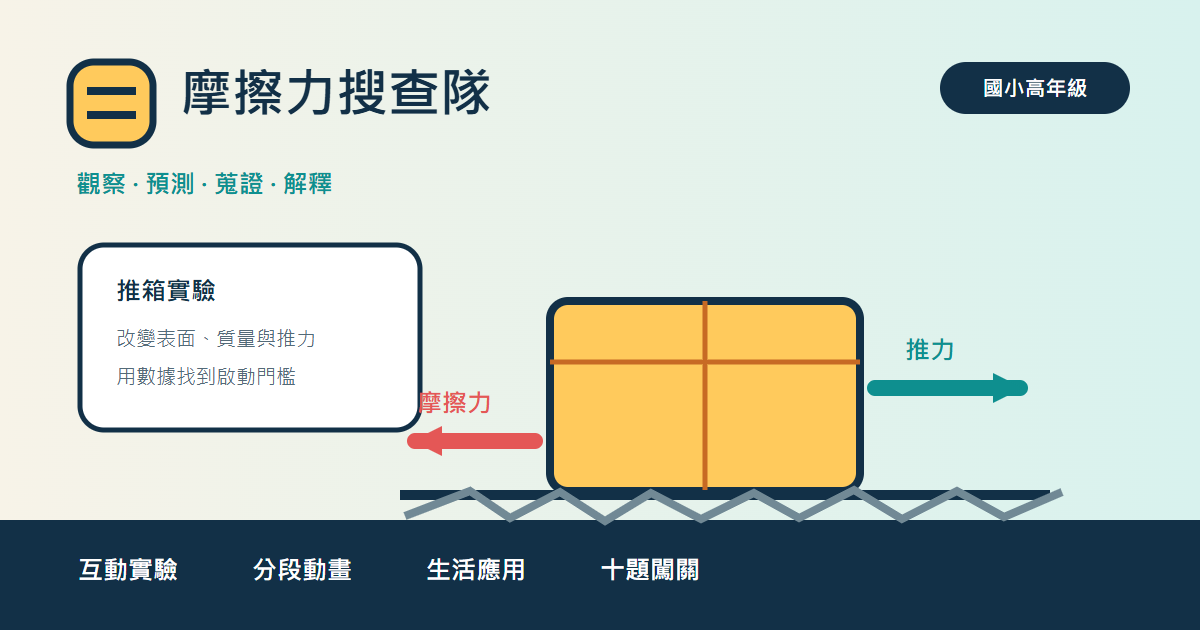
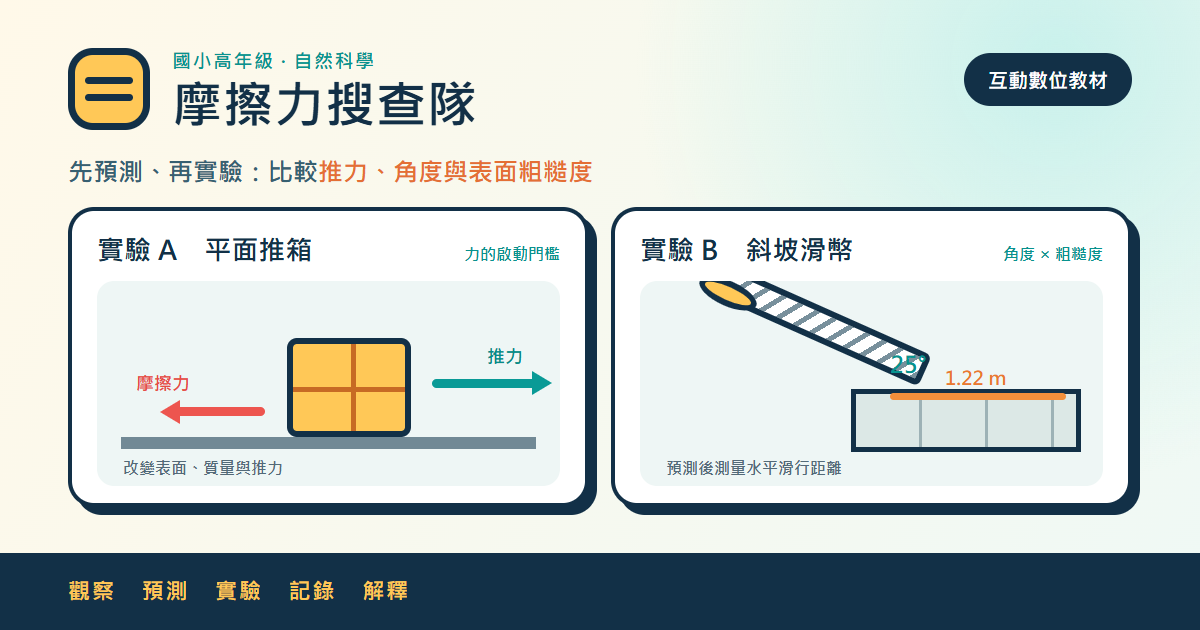
Refresh social preview and sharing copy

diff --git a/docs/social-preview-source.html b/docs/social-preview-source.html
@@ -1,0 +1,21 @@
+<!doctype html>
+<html lang="zh-Hant">
+<head>
+<meta charset="utf-8" />
+<meta name="viewport" content="width=device-width,initial-scale=1" />
+<title>摩擦力搜查隊社群預覽圖</title>
+<link rel="icon" href="../assets/favicon.svg" type="image/svg+xml" />
+<style>
+*{box-sizing:border-box}html,body{margin:0;width:1200px;height:630px;overflow:hidden}body{font-family:"Microsoft JhengHei","Noto Sans TC",sans-serif;color:#123047;background:#f8f4e8}.canvas{position:relative;width:1200px;height:630px;padding:48px 68px 0;background:radial-gradient(circle at 88% 10%,#c9f1ec 0,transparent 35%),linear-gradient(120deg,#fff9e9,#eff9f5)}header{display:flex;align-items:flex-start;justify-content:space-between}.brand{display:flex;gap:22px;align-items:center}.mark{width:82px;height:82px;border:7px solid #123047;border-radius:25px;background:#ffc857;display:grid;place-content:center;gap:10px}.mark i{display:block;width:48px;height:7px;border-radius:7px;background:#123047}.eyebrow{margin:0 0 4px;color:#08928e;font-weight:900;font-size:19px;letter-spacing:.08em}.title{margin:0;font-size:50px;line-height:1.05;letter-spacing:.02em}.badge{margin-top:5px;padding:13px 24px;border-radius:999px;background:#123047;color:#fff;font-size:20px;font-weight:900}.subtitle{margin:24px 0 20px;font-size:25px;color:#376071;font-weight:800}.subtitle strong{color:#e46f35}.labs{display:grid;grid-template-columns:1fr 1fr;gap:22px}.lab{height:300px;padding:20px 25px;border:4px solid #123047;border-radius:26px;background:#fff;box-shadow:8px 8px 0 #123047}.lab-head{display:flex;justify-content:space-between;align-items:baseline}.lab h2{margin:0;font-size:27px}.lab small{color:#08928e;font-weight:900;font-size:16px}.scene{position:relative;height:205px;margin-top:14px;border-radius:17px;background:#eef6f5;overflow:hidden}.floor{position:absolute;left:24px;right:24px;bottom:37px;height:12px;background:#718995}.box{position:absolute;left:190px;bottom:49px;width:124px;height:99px;border:6px solid #123047;border-radius:10px;background:#ffc857}.box:before,.box:after{content:"";position:absolute;background:#c76a24}.box:before{width:5px;top:0;bottom:0;left:58px}.box:after{height:5px;left:0;right:0;top:43px}.arrow{position:absolute;height:9px;border-radius:9px}.arrow:after{content:"";position:absolute;right:-15px;top:-8px;border-left:20px solid currentColor;border-top:12px solid transparent;border-bottom:12px solid transparent}.push{left:335px;bottom:98px;width:105px;background:#099a96;color:#099a96}.friction{left:78px;bottom:70px;width:90px;background:#ed554f;color:#ed554f;transform:rotate(180deg)}.push-label,.friction-label{position:absolute;font-size:18px;font-weight:950}.push-label{right:37px;bottom:118px;color:#078b87}.friction-label{left:39px;bottom:91px;color:#e64c47}.ruler{position:absolute;left:211px;right:22px;bottom:34px;height:63px;border:5px solid #123047;background:repeating-linear-gradient(90deg,#dce8e6 0 63px,#9db2b6 63px 66px)}.ramp{position:absolute;left:50px;bottom:98px;width:235px;height:34px;border:6px solid #123047;border-radius:7px;background:repeating-linear-gradient(125deg,#fff 0 10px,#78909c 10px 15px);transform:rotate(24deg);transform-origin:right center}.coin{position:absolute;left:57px;bottom:180px;width:62px;height:25px;border:6px solid #123047;border-radius:50%;background:#ffc857;transform:rotate(24deg)}.angle{position:absolute;left:250px;bottom:107px;color:#07938f;font-size:23px;font-weight:950}.distance{position:absolute;left:250px;bottom:86px;width:176px;height:7px;border-radius:7px;background:#f28f3b}.distance:after{content:"1.22 m";position:absolute;left:55px;top:-28px;color:#e9792f;font-size:19px;font-weight:950}.scene-note{position:absolute;left:26px;bottom:8px;color:#536a78;font-size:16px;font-weight:850}.footer{position:absolute;left:0;right:0;bottom:0;height:77px;padding:22px 68px;background:#123047;color:#fff;font-size:22px;font-weight:900;letter-spacing:.08em}.footer span{color:#ffc857;margin-right:26px}
+</style>
+</head>
+<body><main class="canvas">
+  <header><div class="brand"><div class="mark" aria-hidden="true"><i></i><i></i></div><div><p class="eyebrow">國小高年級 · 自然科學</p><h1 class="title">摩擦力搜查隊</h1></div></div><div class="badge">互動數位教材</div></header>
+  <p class="subtitle">先預測、再實驗：比較<strong>推力、角度與表面粗糙度</strong></p>
+  <section class="labs">
+    <article class="lab"><div class="lab-head"><h2>實驗 A　平面推箱</h2><small>力的啟動門檻</small></div><div class="scene"><div class="floor"></div><div class="box"></div><div class="arrow friction"></div><div class="arrow push"></div><span class="friction-label">摩擦力</span><span class="push-label">推力</span><span class="scene-note">改變表面、質量與推力</span></div></article>
+    <article class="lab"><div class="lab-head"><h2>實驗 B　斜坡滑幣</h2><small>角度 × 粗糙度</small></div><div class="scene"><div class="ramp"></div><div class="coin"></div><div class="ruler"></div><span class="angle">25°</span><div class="distance"></div><span class="scene-note">預測後測量水平滑行距離</span></div></article>
+  </section>
+  <footer class="footer"><span>觀察</span><span>預測</span><span>實驗</span><span>記錄</span><span>解釋</span></footer>
+</main></body>
+</html>

diff --git a/index.html b/index.html
@@ -16,12 +16,12 @@
   <meta property="og:image:type" content="image/png" />
   <meta property="og:image:width" content="1200" />
   <meta property="og:image:height" content="630" />
-  <meta property="og:image:alt" content="摩擦力搜查隊社群預覽圖，呈現木箱、相反方向的推力與摩擦力，以及互動實驗、分段動畫、生活應用和十題闖關。" />
+  <meta property="og:image:alt" content="摩擦力搜查隊社群預覽圖，並列呈現平面推箱的推力與摩擦力，以及可比較角度、粗糙度與滑行距離的斜坡滑幣實驗。" />
   <meta name="twitter:card" content="summary_large_image" />
   <meta name="twitter:title" content="摩擦力搜查隊｜互動數位教材" />
   <meta name="twitter:description" content="調整推力、斜坡角度與表面粗糙度，透過預測、實驗紀錄、分段動畫與闖關，用證據理解摩擦力。" />
   <meta name="twitter:image" content="https://prayer168.github.io/friction/assets/social-preview.png" />
-  <meta name="twitter:image:alt" content="摩擦力搜查隊社群預覽圖，呈現木箱與相反方向的推力、摩擦力。" />
+  <meta name="twitter:image:alt" content="摩擦力搜查隊社群預覽圖，呈現平面推箱與斜坡滑幣兩個互動實驗。" />
   <title>摩擦力搜查隊｜互動數位教材</title>
   <link rel="icon" href="assets/favicon.svg" type="image/svg+xml" />
   <link rel="stylesheet" href="styles.css" />

diff --git a/CHANGELOG.md b/CHANGELOG.md
@@ -6,6 +6,7 @@
 - 新增 5°–45° 斜坡、三種粗糙度、滑行距離預測、SVG 動畫、力與距離讀數，以及六次比較紀錄。
 - 新增獨立斜坡物理模型與 59 項臨界角、受力、速度、距離及單調性回歸測試。
 - 完成桌機、平板、手機、降低動畫、主控台、網路與無水平溢出檢查。
+- 收工時刷新雙實驗社群預覽圖與繁體中文／英文 Facebook 分享文。
 
 ## 1.1.0 — 2026-07-14
 